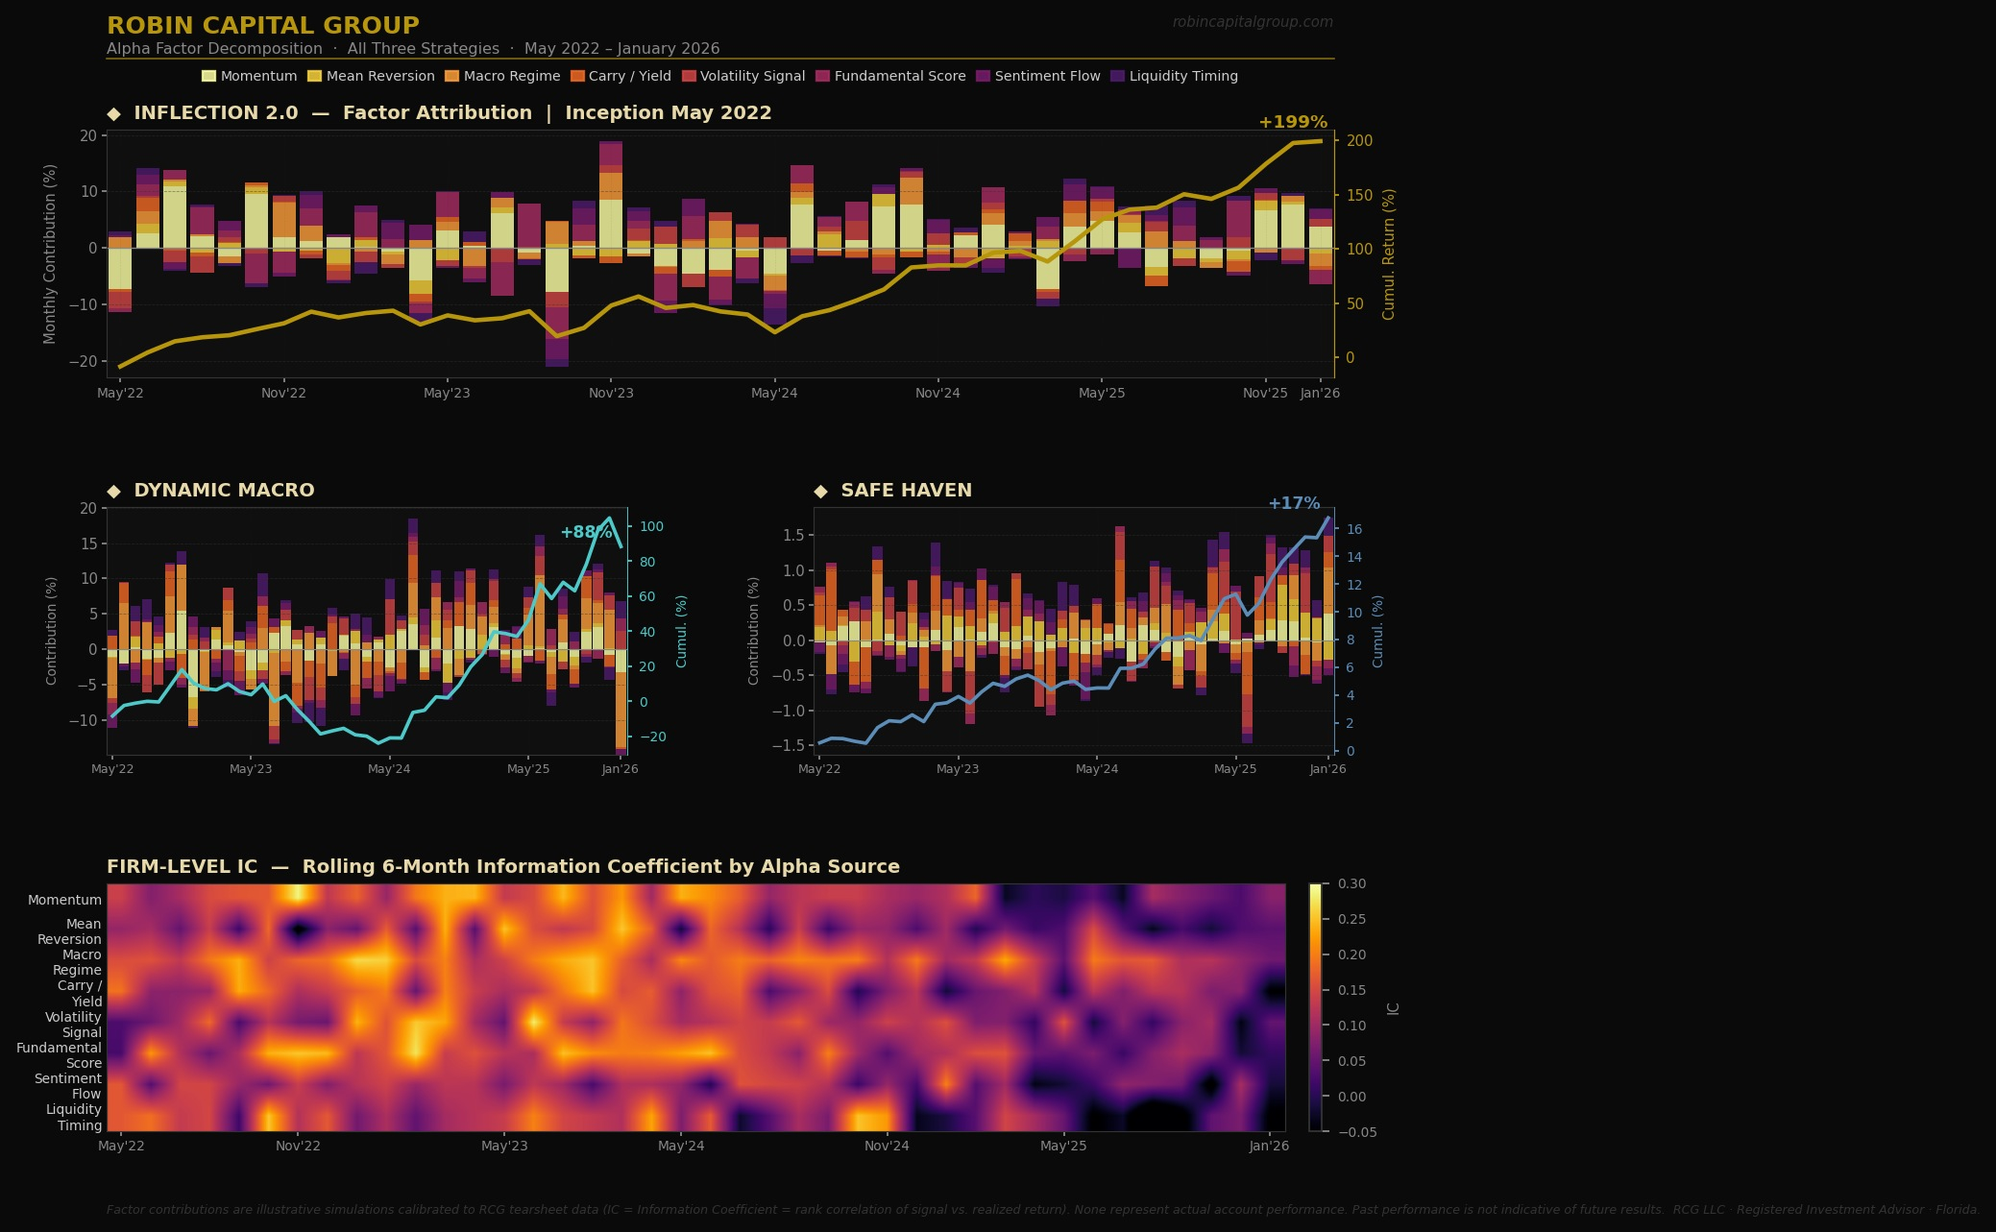
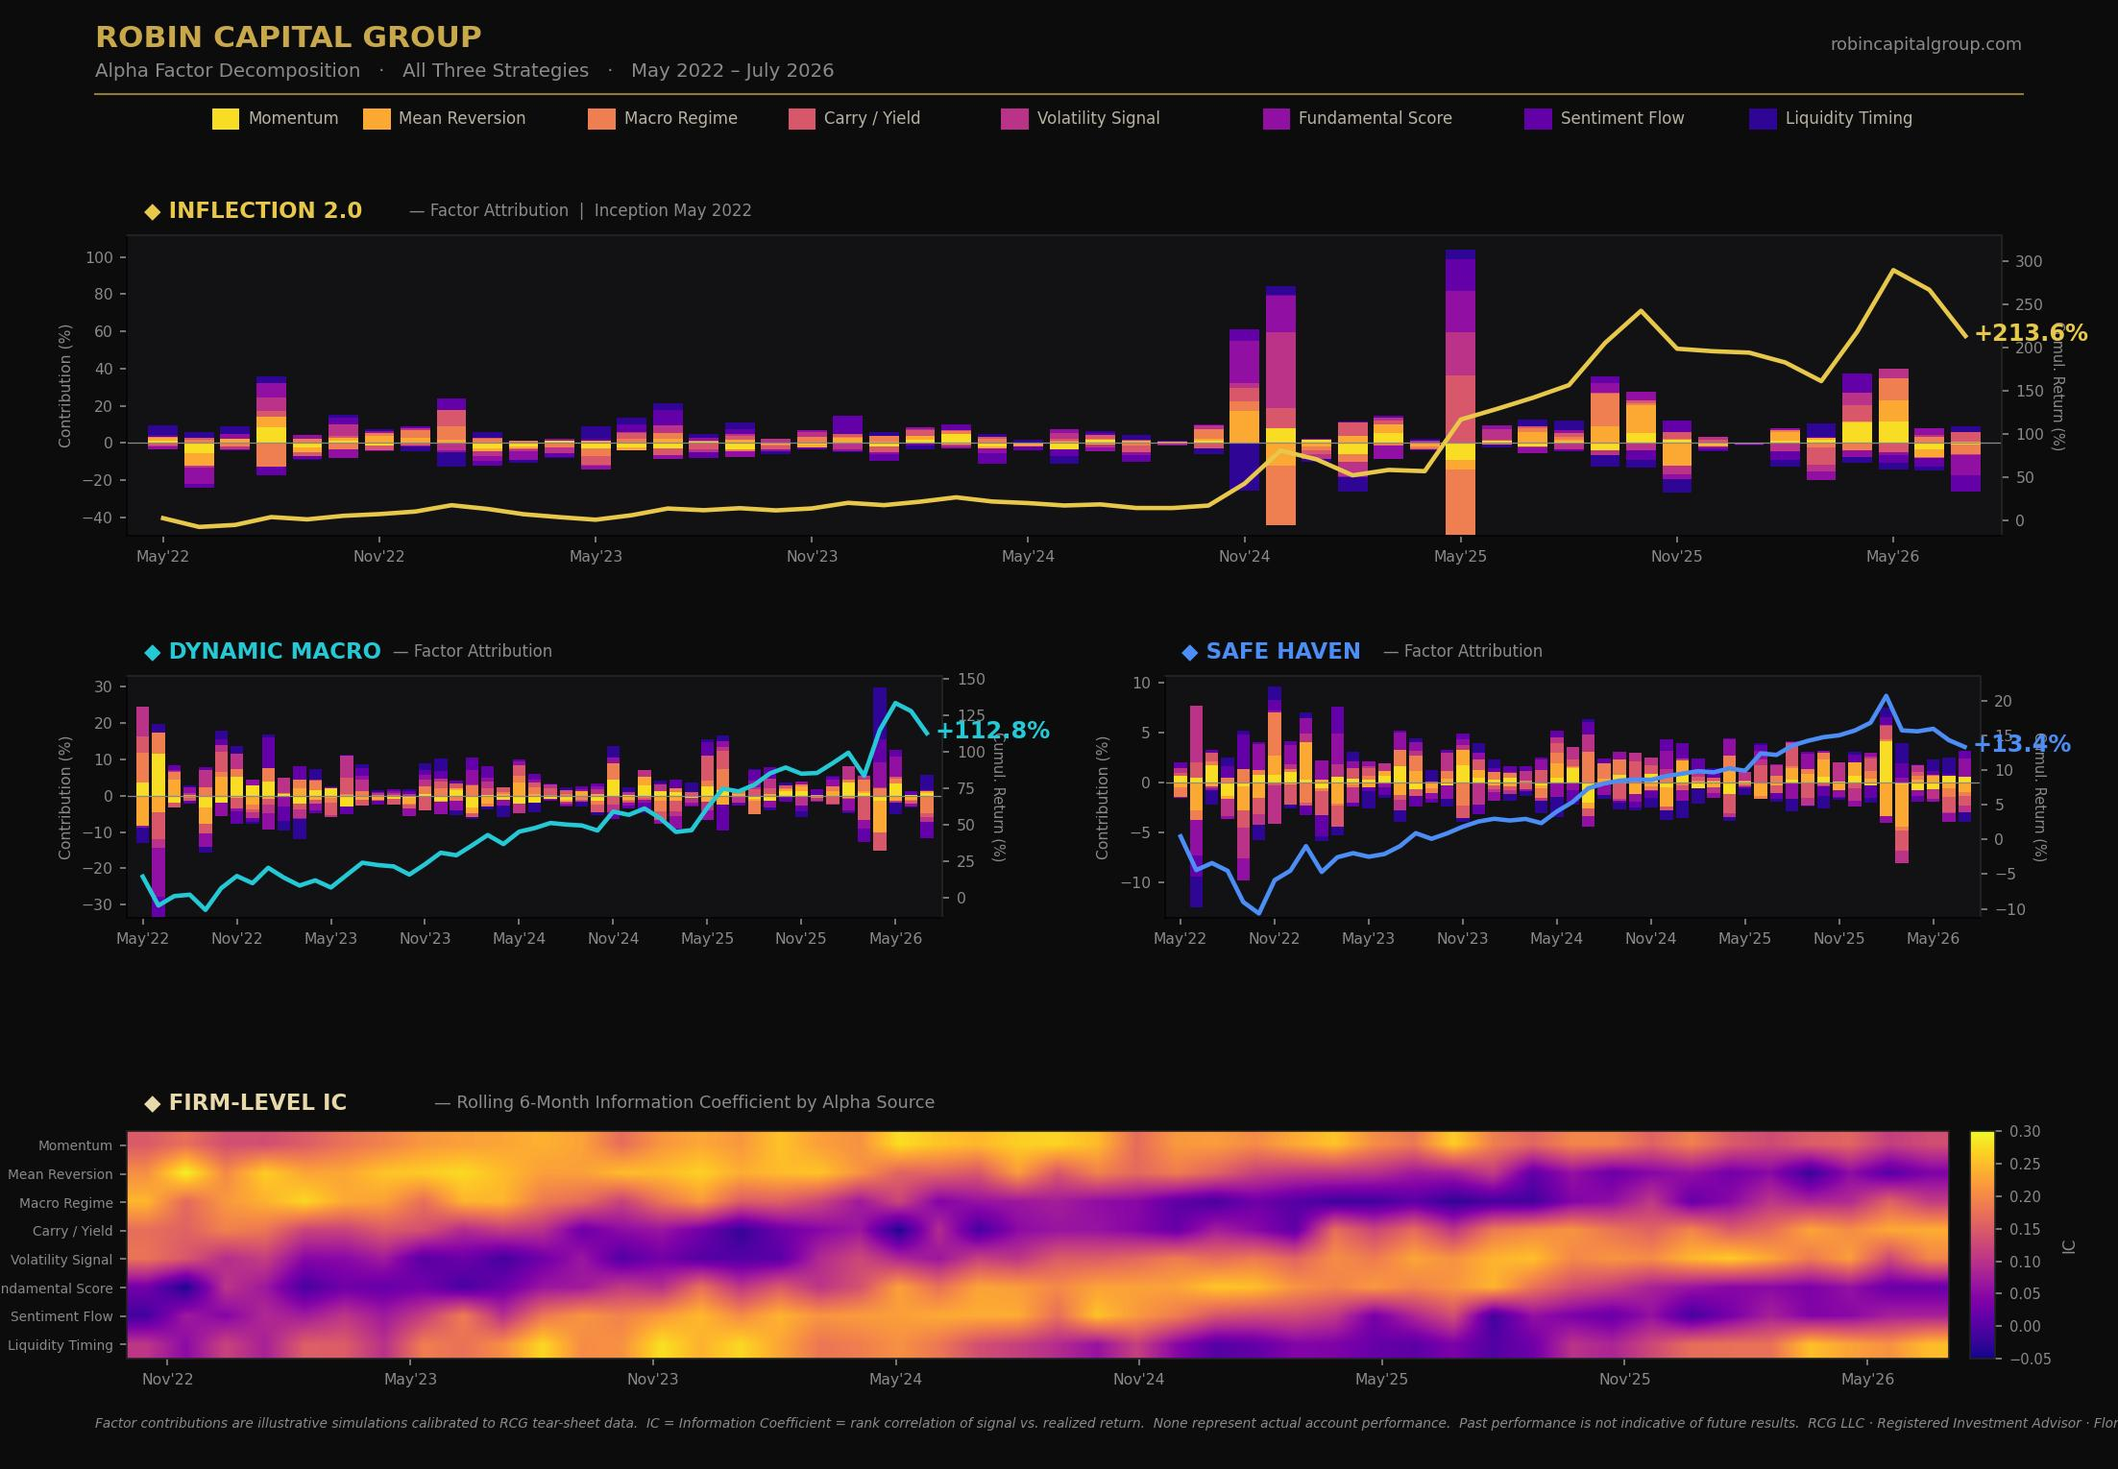
Add files via upload

diff --git a/index.html b/index.html
@@ -9,7 +9,6 @@
   <meta name="google-site-verification" content="Yp6hqZSl48KAGt0ZnFh2akQW5ugwqFCZzD_iotHYK8o" />
   <meta name="geo.region" content="US-FL" />
   <meta name="geo.placename" content="Miami Beach, Florida" />
-  <meta name="twitter:site" content="@robincapital19">
   <script type="application/ld+json">
   {
     "@context": "https://schema.org",
@@ -499,7 +498,7 @@
     .welcome-chart-full {
       max-width: var(--max-w);
       margin: 0 auto;
-      padding: 36px 40px 28px;
+      padding: 0 40px;
       border: 1px solid var(--border);
       background: var(--bg2);
       overflow: hidden;
@@ -509,78 +508,6 @@
       width: 100%;
       height: auto;
       display: block;
-    }
-
-    .alpha-attr-header {
-      display: flex;
-      justify-content: space-between;
-      align-items: baseline;
-      flex-wrap: wrap;
-      gap: 16px;
-      margin-bottom: 24px;
-      padding-bottom: 16px;
-      border-bottom: 1px solid var(--border);
-    }
-    .alpha-attr-title {
-      font-family: 'Playfair Display', serif;
-      font-size: 22px;
-      font-weight: 500;
-      color: var(--cream);
-      letter-spacing: 0.3px;
-      margin: 0;
-    }
-    .alpha-attr-subtitle {
-      font-size: 11px;
-      color: var(--muted);
-      text-transform: uppercase;
-      letter-spacing: 1.5px;
-      margin: 0;
-    }
-    .alpha-attr-legend {
-      display: flex;
-      gap: 22px;
-      flex-wrap: wrap;
-      margin: 18px 0 6px;
-      font-size: 11.5px;
-      color: var(--body);
-      letter-spacing: 0.5px;
-    }
-    .alpha-attr-legend-item {
-      display: inline-flex;
-      align-items: center;
-      gap: 8px;
-    }
-    .alpha-attr-legend-swatch {
-      width: 14px;
-      height: 14px;
-      display: inline-block;
-    }
-    .alpha-attr-chart {
-      width: 100%;
-      height: auto;
-      display: block;
-    }
-    .alpha-attr-footer {
-      margin-top: 18px;
-      padding-top: 14px;
-      border-top: 1px solid var(--border);
-      display: flex;
-      justify-content: space-between;
-      flex-wrap: wrap;
-      gap: 12px;
-      font-size: 11px;
-      color: var(--muted);
-      letter-spacing: 0.5px;
-    }
-    .alpha-attr-footer strong {
-      color: var(--body);
-      font-weight: 500;
-    }
-
-    @media (max-width: 720px) {
-      .alpha-attr-header { flex-direction: column; gap: 6px; }
-      .alpha-attr-title { font-size: 19px; }
-      .alpha-attr-legend { gap: 14px; font-size: 10.5px; }
     }
 
     .welcome-text p {
@@ -1502,15 +1429,15 @@
 
     <div class="hero-stats">
       <div class="hero-stat">
-        <div class="hero-stat-val">+214.1%</div>
+        <div class="hero-stat-val">+213.6%</div>
         <div class="hero-stat-label">Inflection 2.0 · Since Inception</div>
       </div>
       <div class="hero-stat">
-        <div class="hero-stat-val">+112.7%</div>
+        <div class="hero-stat-val">+112.8%</div>
         <div class="hero-stat-label">Dynamic Macro · Since Inception</div>
       </div>
       <div class="hero-stat">
-        <div class="hero-stat-val">+13.4%</div>
+        <div class="hero-stat-val">+13.38%</div>
         <div class="hero-stat-label">Safe Haven · Since Inception</div>
       </div>
       <div class="hero-stat">
@@ -1546,102 +1473,12 @@
         </div>
       </div>
     </div>
-    <!-- Alpha attribution chart: strategies vs benchmarks -->
-    <!-- VERIFY BEFORE DEPLOY: TRAILING 1-YEAR figures (both strategy & benchmark) are PROVISIONAL.
-         Strategy 1Y computed from golden-copy monthly grid; benchmark 1Y from totalrealreturns (as of ~Aug 7 2026).
-         YTD 2026 group is IB-sourced and final. Confirm 1Y vs IB PortfolioAnalyst before publishing. -->
+    <!-- Alpha chart full width, fully visible -->
     <div class="welcome-chart-full">
-      <div class="alpha-attr-header">
-        <h3 class="alpha-attr-title">Performance vs. Benchmarks</h3>
-        <p class="alpha-attr-subtitle">YTD &amp; 1-Year Returns · As of July 31, 2026</p>
-      </div>
-
-      <div class="alpha-attr-legend">
-        <span class="alpha-attr-legend-item"><span class="alpha-attr-legend-swatch" style="background:#D4AF37;"></span>RCG Strategy</span>
-        <span class="alpha-attr-legend-item"><span class="alpha-attr-legend-swatch" style="background:#5A6B7D;"></span>SPY · S&amp;P 500</span>
-        <span class="alpha-attr-legend-item"><span class="alpha-attr-legend-swatch" style="background:#4A5568;"></span>IWM · Russell 2000</span>
-        <span class="alpha-attr-legend-item"><span class="alpha-attr-legend-swatch" style="background:#3A4553;"></span>IEF · 7-10Y Treasury</span>
-      </div>
-
-      <svg class="alpha-attr-chart" viewBox="0 0 1100 520" xmlns="http://www.w3.org/2000/svg" role="img" aria-label="Performance of RCG strategies versus SPY, IWM, and IEF benchmarks for YTD 2026 and trailing 1-year, as of July 31 2026">
-        <defs>
-          <linearGradient id="goldGrad" x1="0" y1="0" x2="0" y2="1">
-            <stop offset="0%" stop-color="#E8C84A"/>
-            <stop offset="100%" stop-color="#B8960C"/>
-          </linearGradient>
-        </defs>
-        <g font-family="Inter, system-ui, sans-serif" font-size="11" fill="#888888">
-          <line x1="70" y1="465.00" x2="1080" y2="465.00" stroke="#2A2A2A" stroke-width="1" stroke-dasharray="2,3"/>
-          <text x="60" y="469.00" text-anchor="end">-5%</text>
-          <line x1="70" y1="420.00" x2="1080" y2="420.00" stroke="#444444" stroke-width="1.5"/>
-          <text x="60" y="424.00" text-anchor="end">0%</text>
-          <line x1="70" y1="375.00" x2="1080" y2="375.00" stroke="#2A2A2A" stroke-width="1" stroke-dasharray="2,3"/>
-          <text x="60" y="379.00" text-anchor="end">5%</text>
-          <line x1="70" y1="330.00" x2="1080" y2="330.00" stroke="#2A2A2A" stroke-width="1"/>
-          <text x="60" y="334.00" text-anchor="end">10%</text>
-          <line x1="70" y1="285.00" x2="1080" y2="285.00" stroke="#2A2A2A" stroke-width="1" stroke-dasharray="2,3"/>
-          <text x="60" y="289.00" text-anchor="end">15%</text>
-          <line x1="70" y1="240.00" x2="1080" y2="240.00" stroke="#2A2A2A" stroke-width="1"/>
-          <text x="60" y="244.00" text-anchor="end">20%</text>
-          <line x1="70" y1="195.00" x2="1080" y2="195.00" stroke="#2A2A2A" stroke-width="1" stroke-dasharray="2,3"/>
-          <text x="60" y="199.00" text-anchor="end">25%</text>
-          <line x1="70" y1="150.00" x2="1080" y2="150.00" stroke="#2A2A2A" stroke-width="1"/>
-          <text x="60" y="154.00" text-anchor="end">30%</text>
-          <line x1="70" y1="105.00" x2="1080" y2="105.00" stroke="#2A2A2A" stroke-width="1" stroke-dasharray="2,3"/>
-          <text x="60" y="109.00" text-anchor="end">35%</text>
-          <line x1="70" y1="60.00" x2="1080" y2="60.00" stroke="#2A2A2A" stroke-width="1"/>
-          <text x="60" y="64.00" text-anchor="end">40%</text>
-          </g>
-        <g font-family="Inter, system-ui, sans-serif">
-        <text x="330" y="38" text-anchor="middle" fill="#E8D9AA" font-size="13" font-weight="600" letter-spacing="2">YTD 2026</text>
-        <rect x="115.0" y="354.75" width="32" height="65.25" fill="url(#goldGrad)"/>
-        <text x="131.0" y="347.75" text-anchor="middle" fill="#E8C84A" font-size="11" font-weight="600">+7.25</text>
-        <rect x="149.0" y="328.74" width="20" height="91.26" fill="#5A6B7D"/>
-        <rect x="171.0" y="250.98" width="20" height="169.02" fill="#4A5568"/>
-        <rect x="193.0" y="420.00" width="20" height="13.05" fill="#3A4553"/>
-        <text x="164" y="490" text-anchor="middle" fill="#CCCCCC" font-size="12" font-weight="500">Inflection 2.0</text>
-        <rect x="275.0" y="306.24" width="32" height="113.76" fill="url(#goldGrad)"/>
-        <text x="291.0" y="299.24" text-anchor="middle" fill="#E8C84A" font-size="11" font-weight="600">+12.64</text>
-        <rect x="309.0" y="328.74" width="20" height="91.26" fill="#5A6B7D"/>
-        <rect x="331.0" y="250.98" width="20" height="169.02" fill="#4A5568"/>
-        <rect x="353.0" y="420.00" width="20" height="13.05" fill="#3A4553"/>
-        <text x="324" y="490" text-anchor="middle" fill="#CCCCCC" font-size="12" font-weight="500">Dynamic Macro</text>
-        <rect x="435.0" y="420.00" width="32" height="18.45" fill="url(#goldGrad)"/>
-        <text x="451.0" y="452.45" text-anchor="middle" fill="#E8C84A" font-size="11" font-weight="600">-2.05</text>
-        <rect x="469.0" y="328.74" width="20" height="91.26" fill="#5A6B7D"/>
-        <rect x="491.0" y="250.98" width="20" height="169.02" fill="#4A5568"/>
-        <rect x="513.0" y="420.00" width="20" height="13.05" fill="#3A4553"/>
-        <text x="484" y="490" text-anchor="middle" fill="#CCCCCC" font-size="12" font-weight="500">Safe Haven</text>
-        </g>
-        <line x1="575" y1="50" x2="575" y2="465" stroke="#2A2A2A" stroke-width="1"/>
-        <g font-family="Inter, system-ui, sans-serif">
-        <text x="850" y="38" text-anchor="middle" fill="#E8D9AA" font-size="13" font-weight="600" letter-spacing="2">TRAILING 1-YEAR · PROVISIONAL</text>
-        <rect x="635.0" y="88.89" width="32" height="331.11" fill="url(#goldGrad)"/>
-        <text x="651.0" y="81.89" text-anchor="middle" fill="#E8C84A" font-size="11" font-weight="600">+36.79</text>
-        <rect x="669.0" y="207.06" width="20" height="212.94" fill="#5A6B7D"/>
-        <rect x="691.0" y="72.60" width="20" height="347.40" fill="#4A5568"/>
-        <rect x="713.0" y="408.39" width="20" height="11.61" fill="#3A4553"/>
-        <text x="684" y="490" text-anchor="middle" fill="#CCCCCC" font-size="12" font-weight="500">Inflection 2.0</text>
-        <rect x="795.0" y="242.88" width="32" height="177.12" fill="url(#goldGrad)"/>
-        <text x="811.0" y="235.88" text-anchor="middle" fill="#E8C84A" font-size="11" font-weight="600">+19.68</text>
-        <rect x="829.0" y="207.06" width="20" height="212.94" fill="#5A6B7D"/>
-        <rect x="851.0" y="72.60" width="20" height="347.40" fill="#4A5568"/>
-        <rect x="873.0" y="408.39" width="20" height="11.61" fill="#3A4553"/>
-        <text x="844" y="490" text-anchor="middle" fill="#CCCCCC" font-size="12" font-weight="500">Dynamic Macro</text>
-        <rect x="955.0" y="410.73" width="32" height="9.27" fill="url(#goldGrad)"/>
-        <text x="971.0" y="403.73" text-anchor="middle" fill="#E8C84A" font-size="11" font-weight="600">+1.03</text>
-        <rect x="989.0" y="207.06" width="20" height="212.94" fill="#5A6B7D"/>
-        <rect x="1011.0" y="72.60" width="20" height="347.40" fill="#4A5568"/>
-        <rect x="1033.0" y="408.39" width="20" height="11.61" fill="#3A4553"/>
-        <text x="1004" y="490" text-anchor="middle" fill="#CCCCCC" font-size="12" font-weight="500">Safe Haven</text>
-        </g>
-        <text x="22" y="260" text-anchor="middle" fill="#888888" font-size="10" font-family="Inter, system-ui, sans-serif" letter-spacing="1.5" transform="rotate(-90, 22, 260)">RETURN (%)</text>
-      </svg>
-
-      <div class="alpha-attr-footer">
-        <span>Benchmarks: <strong>SPY</strong> (S&amp;P 500), <strong>IWM</strong> (Russell 2000), <strong>IEF</strong> (iShares 7-10 Yr Treasury)</span>
-        <span>Source: Interactive Brokers PortfolioAnalyst · Net of fees</span>
-      </div>
+      <img src="rcg_alpha_factor_1.jpg"
+           alt="RCG Alpha Factor Decomposition Chart"
+           loading="lazy"
+           onerror="this.parentElement.style.display='none'">
     </div>
   </div>
 
@@ -1694,12 +1531,12 @@
           <div class="perf-card-name">Inflection 2.0</div>
           <div class="perf-card-class">Equity · Concentrated · Benchmark: IWM</div>
         </div>
-        <div class="perf-si">+214.1%</div>
+        <div class="perf-si">+213.6%</div>
         <div class="perf-si-label">Since Inception</div>
         <div class="perf-grid">
           <div class="perf-item">
             <div class="perf-item-label">1-Year Return</div>
-            <div class="perf-item-val">+36.8%</div>
+            <div class="perf-item-val">+36.6%</div>
           </div>
           <div class="perf-item">
             <div class="perf-item-label">Sharpe Ratio (SI)</div>
@@ -1727,12 +1564,12 @@
           <div class="perf-card-name">Dynamic Macro</div>
           <div class="perf-card-class">Multi-Asset · Global · Benchmark: SPY</div>
         </div>
-        <div class="perf-si">+112.7%</div>
+        <div class="perf-si">+112.8%</div>
         <div class="perf-si-label">Since Inception</div>
         <div class="perf-grid">
           <div class="perf-item">
             <div class="perf-item-label">1-Year Return</div>
-            <div class="perf-item-val">+19.7%</div>
+            <div class="perf-item-val">+19.8%</div>
           </div>
           <div class="perf-item">
             <div class="perf-item-label">Sharpe Ratio (SI)</div>
@@ -1760,12 +1597,12 @@
           <div class="perf-card-name">Safe Haven</div>
           <div class="perf-card-class">Fixed Income · Defensive · Benchmark: IEF</div>
         </div>
-        <div class="perf-si">+13.4%</div>
+        <div class="perf-si">+13.38%</div>
         <div class="perf-si-label">Since Inception</div>
         <div class="perf-grid">
           <div class="perf-item">
             <div class="perf-item-label">1-Year Return</div>
-            <div class="perf-item-val">+1.0%</div>
+            <div class="perf-item-val">+1.03%</div>
           </div>
           <div class="perf-item">
             <div class="perf-item-label">Sortino Ratio (SI)</div>
@@ -1782,7 +1619,7 @@
         </div>
         <div class="perf-benchmark">
           <span class="perf-bm-label">IEF Since Inception</span>
-          <span class="perf-bm-val">+2.7%</span>
+          <span class="perf-bm-val">+2.66%</span>
         </div>
         <a class="perf-tearsheet" href="RCG_Safe_Haven_Tearsheet_Jul.pdf" target="_blank">View Full Tearsheet ↗</a>
       </div>
@@ -1826,6 +1663,22 @@
         <div class="research-topic">
           <h4>How to Think About Drawdown Before It Happens</h4>
           <span class="topic-num">05 ↑</span>
+        </div>
+        <div class="research-topic">
+          <h4>Mark Yourself to Market</h4>
+          <span class="topic-num">06 ↑</span>
+        </div>
+        <div class="research-topic">
+          <h4>The Rebalancing Decision</h4>
+          <span class="topic-num">07 ↑</span>
+        </div>
+        <div class="research-topic">
+          <h4>Position Sizing Is the Decision</h4>
+          <span class="topic-num">08 ↑</span>
+        </div>
+        <div class="research-topic">
+          <h4>The Risk That Doesn’t Show Up in Volatility</h4>
+          <span class="topic-num">09 ↑</span>
         </div>
       </div>
     </div>
@@ -1875,7 +1728,7 @@
         <p class="team-bio-preview">Nick brings over twenty years of institutional experience in systematic and discretionary trading and portfolio management. He founded and built Robin Capital Group as a sole practitioner — designing its investment philosophy, constructing its three live strategies, and developing the systematic infrastructure that underlies the firm's operations.</p>
         <div class="team-bio-full" id="bio-nick">
           <p style="margin-bottom:12px;">Prior to founding RCG, Nick held senior roles at Citadel Securities, Citadel, and Bank of America in Chicago, New York, and London, covering rates, market making, and high-frequency trading. That career across three financial capitals — spanning institutional fixed income, derivatives, and systematic execution — shaped the cross-market perspective on risk and capital allocation that defines RCG's investment approach. RCG's track record since May 2022, across multiple market regimes and in real client capital, reflects that body of work entirely. Nick holds an M.S. in Finance and a B.S.E. from Universidad Adolfo Ibáñez (UAI) in Santiago, Chile, and currently holds his Series 65 as a registered Investment Advisor Representative.</p>
-
+          <p style="padding-top:12px; border-top:1px solid var(--border);">Nick is also Co-Founder and Co-CIO of <span style="color:var(--cream);">Nezumia</span>, a separate quantitative AI hedge fund co-founded with Patrick S. Huggins — a quantitative researcher with prior roles at Citadel Securities, Citadel, and HSBC, and holder of a Ph.D. in Computer Science with a concentration in Artificial Intelligence from Yale University and a B.S. in Mathematics and Computer Science from NYU. Nezumia represents a distinct thesis — one that recent advances in AI have made possible: a fully autonomous asset manager in which AI drives every stage of the investment process, from alpha generation and signal sourcing to execution and risk management, with no discretionary overlay. The two firms are independent ventures that happen to share a founder, not extensions of one another.</p>
         </div>
         <button class="team-read-more" onclick="toggleBio('bio-nick', this)">Read more <span class="arrow">↓</span></button>
       </div>
@@ -1918,7 +1771,7 @@
       <div class="timeline-item">
         <div class="timeline-dot"></div>
         <div class="timeline-year">2008–2018</div>
-        <div class="timeline-event"><strong>Institutional Foundation</strong>BofA, Citadel, Citadel Securities — rates, credit, derivatives, HFT</div>
+        <div class="timeline-event"><strong>Institutional Foundation</strong>BofA, Citadel FI, Citadel Securities — rates, credit, derivatives, HFT</div>
       </div>
       <div class="timeline-item">
         <div class="timeline-dot"></div>
